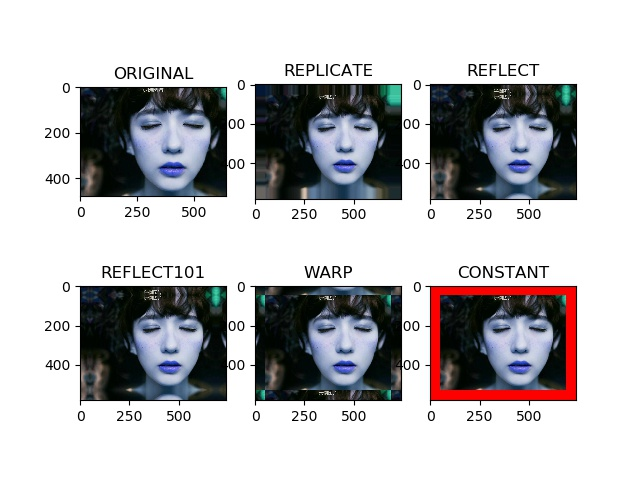
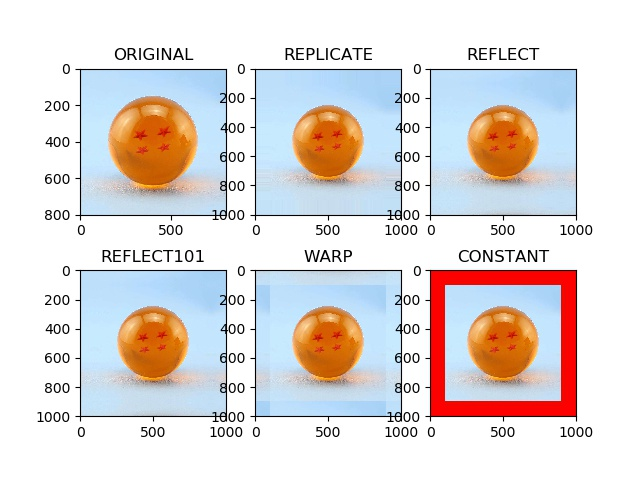
扩充填边优化及RGB颜色调整

diff --git a/car/static/js/image/image_base.js b/car/static/js/image/image_base.js
@@ -6,7 +6,11 @@ $('.btn_base').click(function () {
         'img_path': img_path,
         'order': order
     };
-    console.log(params);
+    let origin_path = img_path;
+    if(img_path.startsWith('car')){
+        origin_path = img_path.split('car')[1]
+    }
+    $('#img_main').attr('src', origin_path +'?'+Math.random());
     clear(['coordinate', 'coordinate_show', 'coordinate_move','side']);
     $('#'+order).show();
     switch (order) {
@@ -88,7 +92,12 @@ function callback_image_roi(data){
 }
 
 function callback_extended_fillet(data){
-    $('#img_main').attr('src', data.msg.split('car')[1]+'?'+Math.random());
+    if (data.error){
+        $('#img_main').attr('src', data.path.split('car')[1]+'?'+Math.random());
+        alert(data.msg)
+    }else{
+        $('#img_main').attr('src', data.path.split('car')[1]+'?'+Math.random());
+    }
     $('#btn_boundary').attr('disabled',false);
 }
 

diff --git a/car/templates/image/image_base.html b/car/templates/image/image_base.html
@@ -138,11 +138,13 @@
         <div class="ui right pointing large orange label">
             输入边界值大小（四边采用相同值）
         </div>
-        <div class="ui input small_input">
-            <input type="text" placeholder="start" class="side" id="side">
+        <div class="ui action input">
+            <input type="text" placeholder="" class="side" id="side" style="width: 60px">
+            <button class="ui icon green button" data-tooltip="生成主要的五种类型边界"
+                    data-position="bottom center" id="btn_boundary">
+                <i class="icon check"></i>
+            </button>
         </div>
-        <button class="ui green button" data-tooltip="生成主要的五种类型边界"
-                data-position="bottom center" id="btn_boundary">生成边界</button>
     </div>
 {% endblock %}
 {% block script %}

diff --git a/car/view/image/image.py b/car/view/image/image.py
@@ -348,24 +348,27 @@ class Base(object):
     def extended_fillet(self):
         a = int(self.p['side'])
         shape = self.img.shape
+
+        b, g, r = cv2.split(self.img)
+        img = cv2.merge([r, g, b])
         if a >= shape[0] or a >= shape[1]:
-            return {'ret': False, 'msg': '输入边界必须小于图片尺寸'}
+            return {'ret': True, 'type': "extended_fillet", 'error': True, 'path': self.path, 'msg': '输入边界必须小于图片尺寸'}
         blue = [255, 0, 0]
         write_path = img_show_dic[self.path.split('.')[1]]
-        replicate = cv2.copyMakeBorder(self.img, a, a, a, a, cv2.BORDER_REPLICATE)
-        reflect = cv2.copyMakeBorder(self.img, a, a, a, a, cv2.BORDER_REFLECT)
-        reflect101 = cv2.copyMakeBorder(self.img, a, a, a, a, cv2.BORDER_REFLECT101)
-        warp = cv2.copyMakeBorder(self.img, a, a, a, a, cv2.BORDER_WRAP)
-        constant = cv2.copyMakeBorder(self.img, a, a, a, a, cv2.BORDER_CONSTANT, value=blue)
+        replicate = cv2.copyMakeBorder(img, a, a, a, a, cv2.BORDER_REPLICATE)
+        reflect = cv2.copyMakeBorder(img, a, a, a, a, cv2.BORDER_REFLECT)
+        reflect101 = cv2.copyMakeBorder(img, a, a, a, a, cv2.BORDER_REFLECT101)
+        warp = cv2.copyMakeBorder(img, a, a, a, a, cv2.BORDER_WRAP)
+        constant = cv2.copyMakeBorder(img, a, a, a, a, cv2.BORDER_CONSTANT, value=blue)
 
-        plt.subplot(231), plt.imshow(self.img), plt.title('ORIGINAL')
+        plt.subplot(231), plt.imshow(img), plt.title('ORIGINAL')
         plt.subplot(232), plt.imshow(replicate), plt.title('REPLICATE')
         plt.subplot(233), plt.imshow(reflect), plt.title('REFLECT')
         plt.subplot(234), plt.imshow(reflect101), plt.title('REFLECT101')
         plt.subplot(235), plt.imshow(warp), plt.title('WARP')
         plt.subplot(236), plt.imshow(constant), plt.title('CONSTANT')
         plt.savefig(write_path)
-        return {'ret': True, 'type': "extended_fillet", 'msg': write_path}
+        return {'ret': True, 'type': "extended_fillet", 'error': False, 'path': write_path}
 
 
 @csrf_exempt
